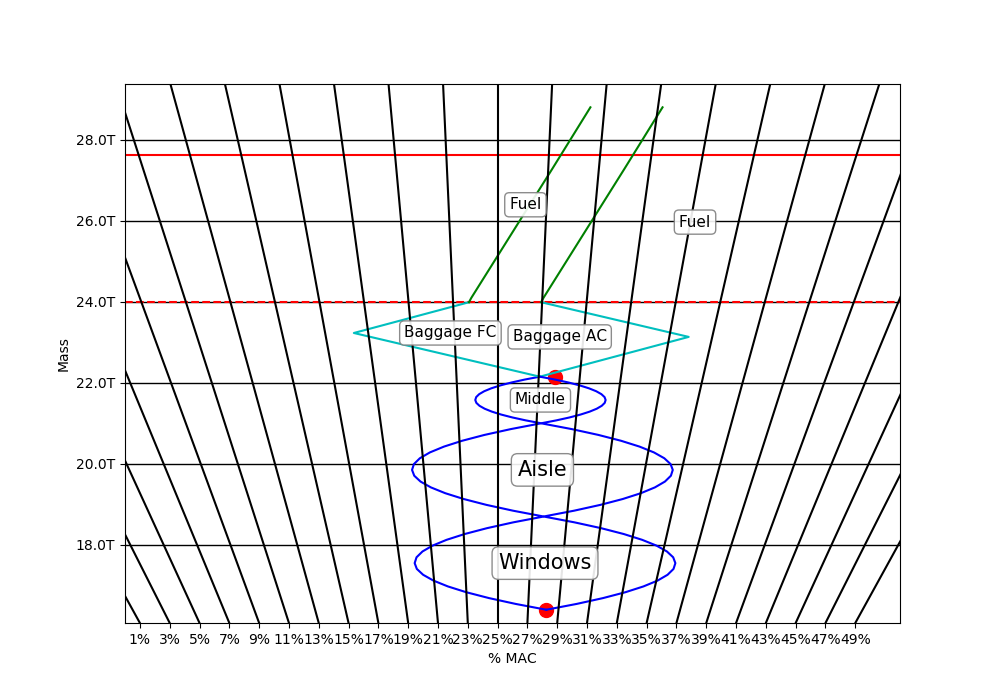
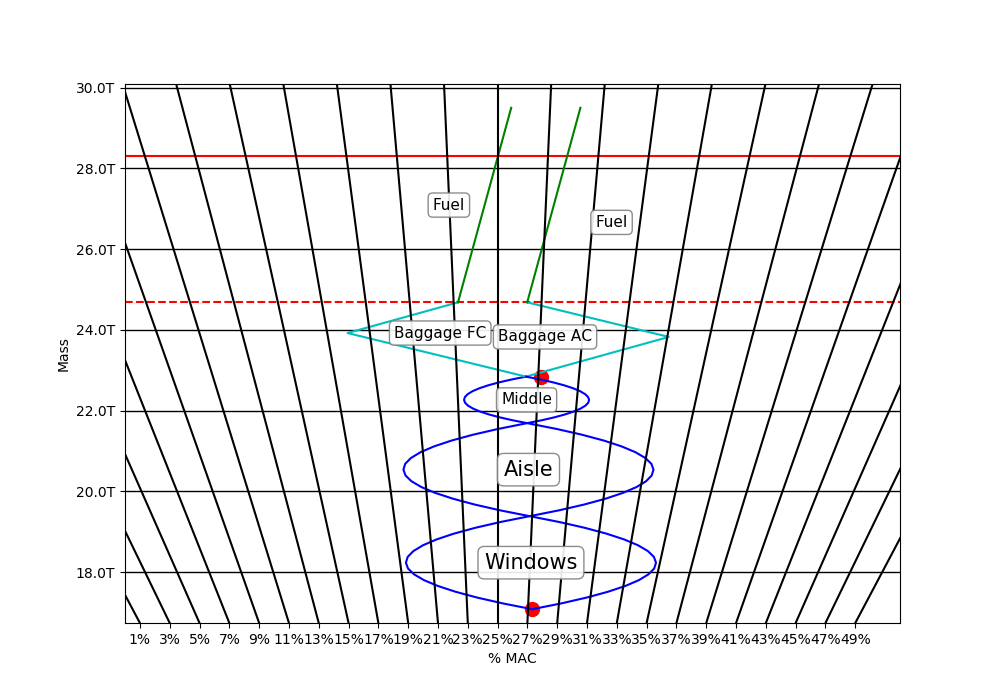
Tidy and fix excel references.

Changed region(s): [[0.062, 0.12, 0.899, 0.9]]

diff --git a/weights_and_balance.py b/weights_and_balance.py
@@ -160,7 +160,8 @@ def fuel_loading():
 
 def tank_pos(ob_dist):
     tank_centre_c_pos = 0.4
-    tank_centre_sweep = np.arctan((0.5-tank_centre_c_pos)/(cad_file['Interface-80']['B85'].value/2))
+    tank_centre_sweep = np.arctan(
+        (cad_file['Interface-80']['B101'].value * (0.5 - tank_centre_c_pos)) / (cad_file['Interface-80']['B98'].value / 2))
     # print("tank sweep: " + str(tank_centre_sweep))
     offset = np.tan(tank_centre_sweep) * ob_dist
     total_pos = offset + cad_file['Sheet2']['S3'].value
